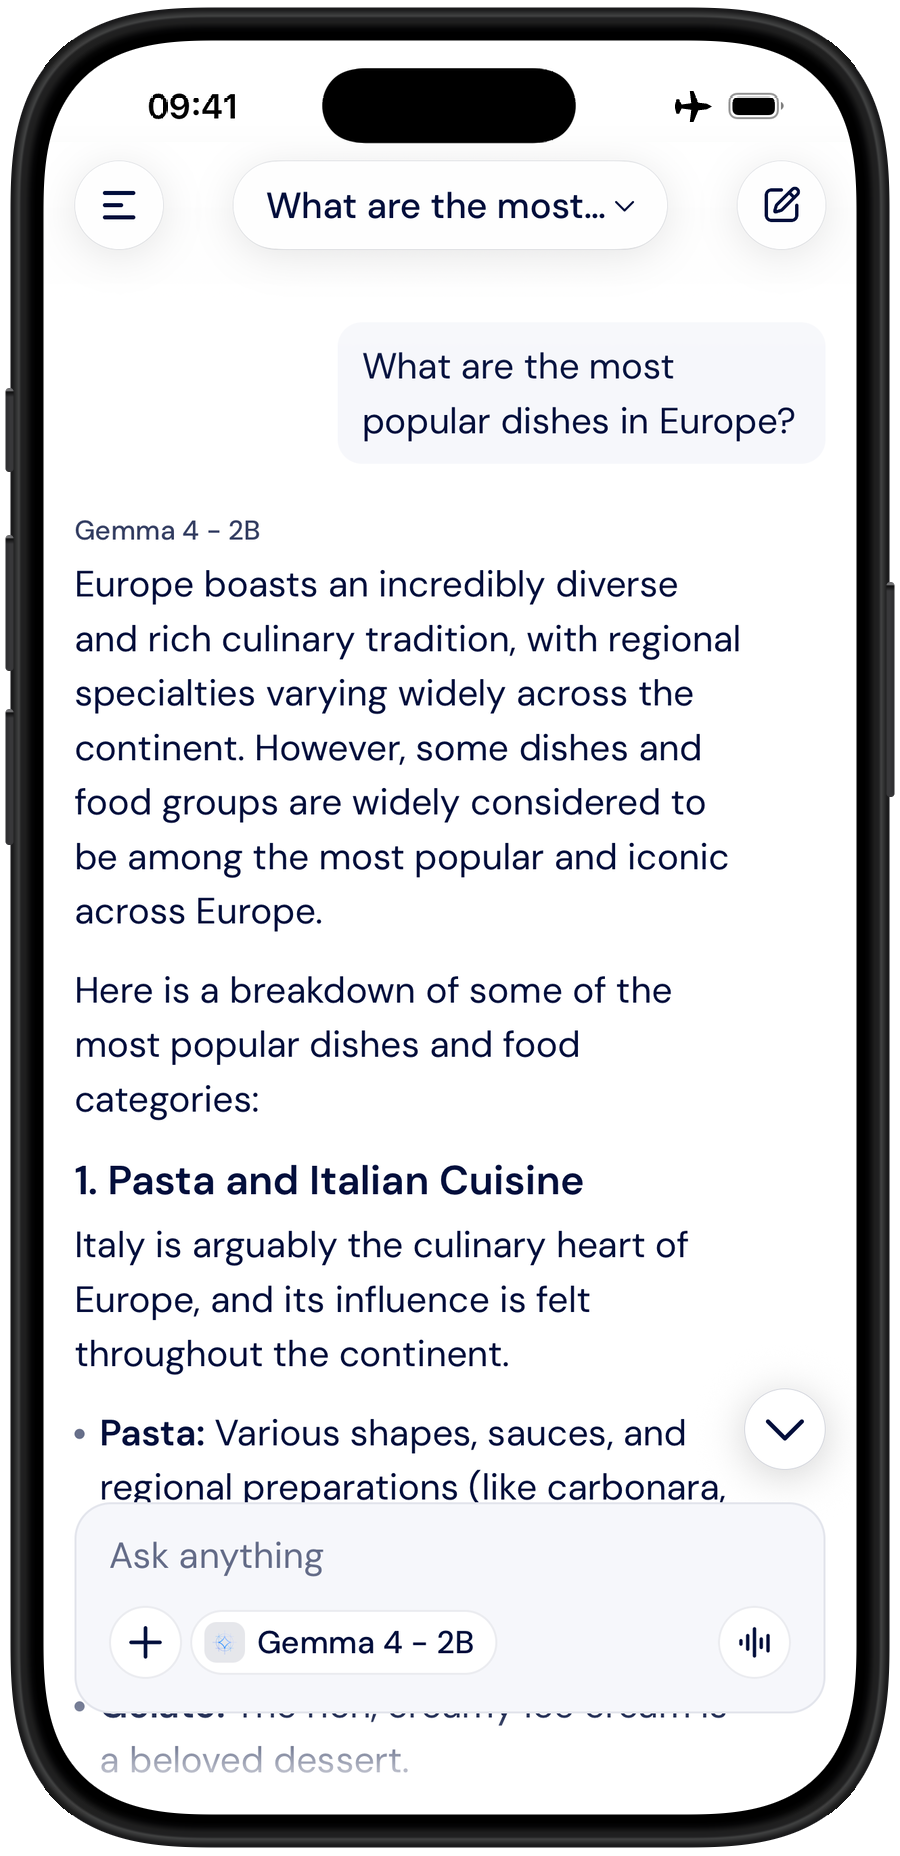
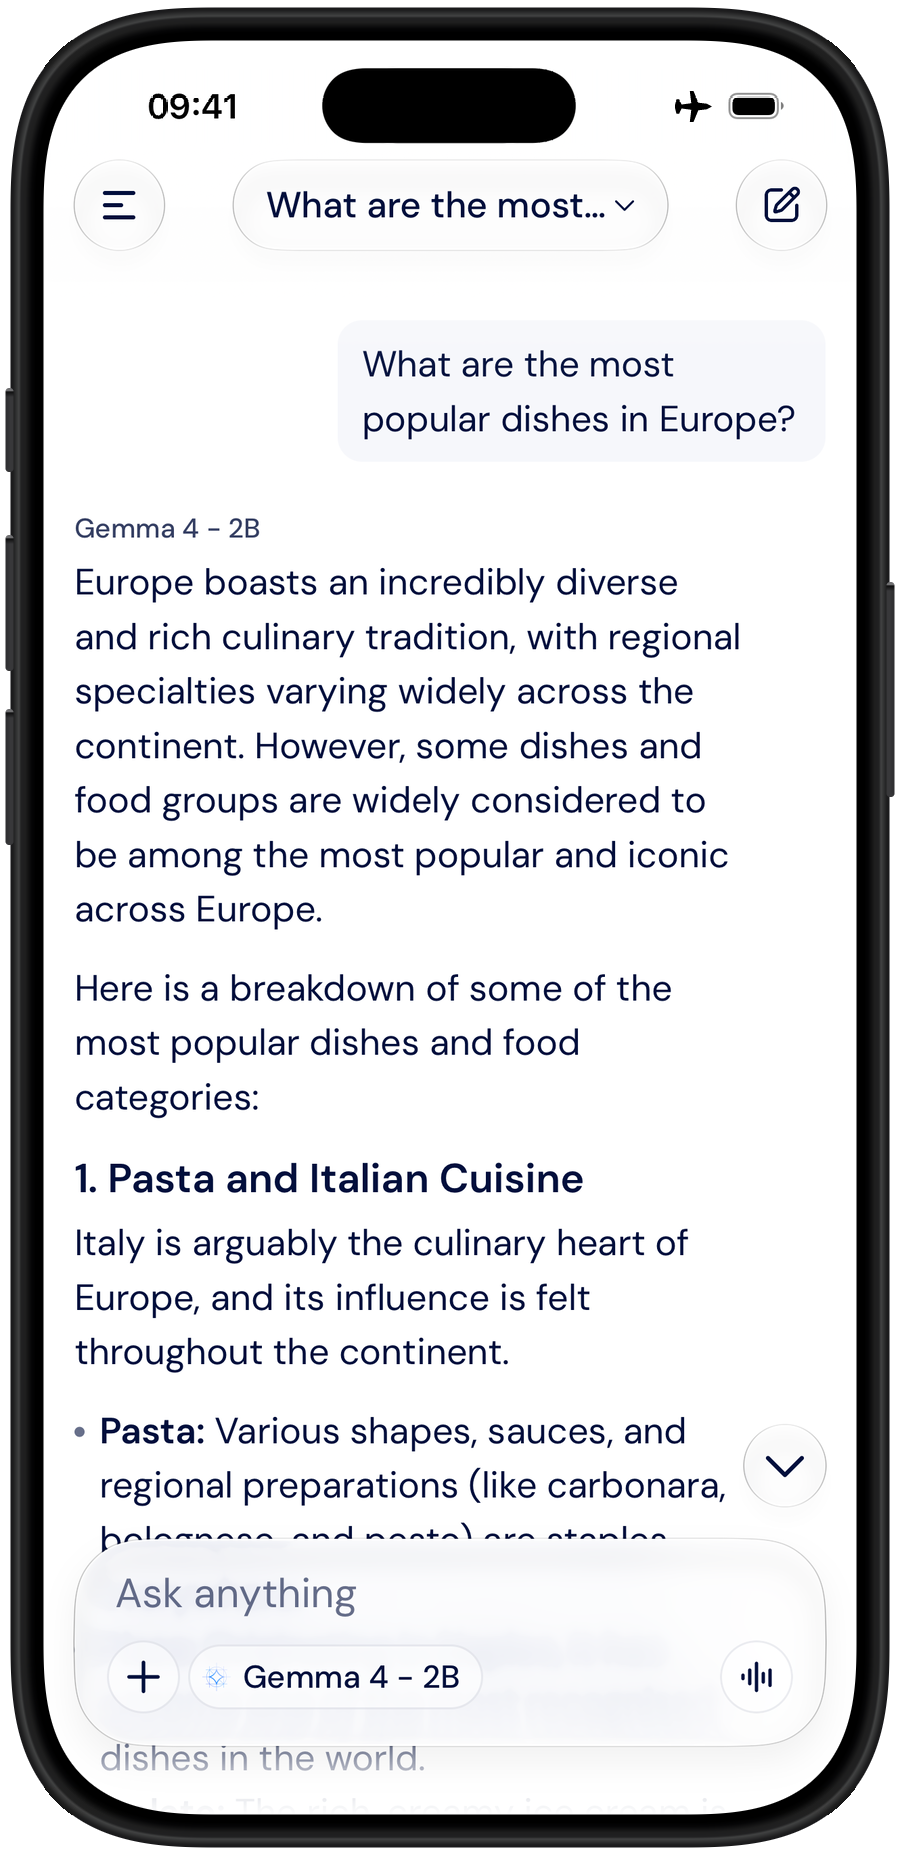
feat(onboarding): images in onboarding update (#533)
## What
Update of images used in onboarding to match with latest changes in chat
screen. Also updates background used in onboarding to be the same as in
new chat. Minor fix to first app opening which resulted in no animation
displayed sometimes, because of wrongly detecting screen changes.

diff --git a/components/onboarding/OnboardingSlide.tsx b/components/onboarding/OnboardingSlide.tsx
@@ -11,7 +11,8 @@ import { LinearGradient } from 'expo-linear-gradient';
 import { useThemedStyles } from '../../hooks/useThemedStyles';
 import OnboardingScrim from './OnboardingScrim';
 import OnboardingCaption from './OnboardingCaption';
-import { Theme, mixColors, withAlpha } from '../../styles/colors';
+import MaskedView from '@react-native-masked-view/masked-view';
+import { Theme, withAlpha } from '../../styles/colors';
 import {
   BADGE_LEAD,
   CARD_INSET,
@@ -33,6 +34,8 @@ const CROP_RAMP: [number, number][] = [
   [0.75, 0.156],
   [1, 0],
 ];
+
+const MASK_INK = '#000000';
 
 interface Props {
   slide: Slide;
@@ -84,16 +87,8 @@ function OnboardingSlide({
     0,
     ...CROP_RAMP.map(([at]) => clearStop + (1 - clearStop) * at),
   ] as [number, number, ...number[]];
-  const cropFadeColors = [1, ...CROP_RAMP.map(([, alpha]) => alpha)].map(
-    (alpha, stop) =>
-      withAlpha(
-        mixColors(
-          theme.bg.softPrimary,
-          theme.bg.main,
-          (cropFadeLocations[stop] * cropHeight) / pageHeight
-        ),
-        alpha
-      )
+  const cropMaskColors = [1, ...CROP_RAMP.map(([, cover]) => cover)].map(
+    (cover) => withAlpha(MASK_INK, 1 - cover)
   ) as [string, string, ...string[]];
 
   const start = (index - 1) * pageWidth;
@@ -180,28 +175,42 @@ function OnboardingSlide({
     };
   });
 
+  const illustration = (
+    <Animated.View style={illustrationStyle}>
+      <Image
+        source={slide.illustration.source}
+        style={{
+          width: illustrationWidth,
+          height: illustrationWidth / slide.illustration.aspectRatio,
+        }}
+      />
+    </Animated.View>
+  );
+
   return (
     <View style={[styles.page, { width: pageWidth, height: pageHeight }]}>
       <View
         pointerEvents="none"
         style={[styles.illustrationZone, zonePlacement]}
       >
-        <Animated.View style={illustrationStyle}>
-          <Image
-            source={slide.illustration.source}
-            style={{
-              width: illustrationWidth,
-              height: illustrationWidth / slide.illustration.aspectRatio,
-            }}
-          />
-        </Animated.View>
-        {!anchoredTop && (
-          <LinearGradient
-            colors={cropFadeColors}
-            locations={cropFadeLocations}
-            style={[styles.cropFade, { height: cropHeight }]}
-            pointerEvents="none"
-          />
+        {anchoredTop ? (
+          illustration
+        ) : (
+          <MaskedView
+            style={[styles.cropMask, isSplit && styles.cropMaskCentred]}
+            maskElement={
+              <View style={StyleSheet.absoluteFill}>
+                <LinearGradient
+                  colors={cropMaskColors}
+                  locations={cropFadeLocations}
+                  style={{ height: cropHeight }}
+                />
+                <View style={styles.cropMaskSolid} />
+              </View>
+            }
+          >
+            {illustration}
+          </MaskedView>
         )}
       </View>
 
@@ -253,11 +262,17 @@ const createStyles = (theme: Theme) =>
     zoneCentred: {
       justifyContent: 'center',
     },
-    cropFade: {
-      position: 'absolute',
-      top: 0,
-      left: 0,
-      right: 0,
+    cropMask: {
+      ...StyleSheet.absoluteFill,
+      alignItems: 'center',
+      justifyContent: 'flex-end',
+    },
+    cropMaskCentred: {
+      justifyContent: 'center',
+    },
+    cropMaskSolid: {
+      flex: 1,
+      backgroundColor: MASK_INK,
     },
     textClip: {
       position: 'absolute',

diff --git a/app/(modals)/onboarding.tsx b/app/(modals)/onboarding.tsx
@@ -1,6 +1,5 @@
 import React, { useCallback, useEffect, useState } from 'react';
 import { StyleSheet, View } from 'react-native';
-import { LinearGradient } from 'expo-linear-gradient';
 import Animated, {
   Easing,
   ReduceMotion,
@@ -14,6 +13,7 @@ import { useThemedStyles } from '../../hooks/useThemedStyles';
 import { Theme } from '../../styles/colors';
 import OnboardingIntroPanel from '../../components/onboarding/OnboardingIntroPanel';
 import OnboardingCarousel from '../../components/onboarding/OnboardingCarousel';
+import { NewChatBackground } from '../../components/chat-screen/NewChatBackground';
 import { markOnboardingComplete } from '../../utils/onboardingStatus';
 import { useSettingsStore } from '../../store/settingsStore';
 import { currentAppVersion } from '../../utils/appVersion';
@@ -25,7 +25,7 @@ const INTRO_EASING = Easing.bezier(...EMPHASIZED_DECELERATE);
 
 function OnboardingScreen() {
   const router = useRouter();
-  const { styles, theme } = useThemedStyles(createStyles);
+  const { styles } = useThemedStyles(createStyles);
   const [showCarousel, setShowCarousel] = useState(false);
   const introProgress = useSharedValue(1);
 
@@ -78,10 +78,7 @@ function OnboardingScreen() {
 
   return (
     <View style={styles.container}>
-      <LinearGradient
-        colors={[theme.bg.softPrimary, theme.bg.main]}
-        style={StyleSheet.absoluteFill}
-      />
+      <NewChatBackground />
 
       {!showCarousel && (
         <Animated.View style={[StyleSheet.absoluteFill, introStyle]}>

diff --git a/app/(drawer)/index.tsx b/app/(drawer)/index.tsx
@@ -86,20 +86,22 @@ export default function App() {
     }, [db, downloadedModels])
   );
 
+  const onboardingRedirectRef = useRef(onboardingRedirect);
+  onboardingRedirectRef.current = onboardingRedirect;
   const [isFocused, setIsFocused] = useState(false);
-  const [hasLeftScreen, setHasLeftScreen] = useState(false);
+  const [returnedFromRedirect, setReturnedFromRedirect] = useState(false);
   useFocusEffect(
     useCallback(() => {
       setIsFocused(true);
-      return () => {
-        setIsFocused(false);
-        setHasLeftScreen(true);
-      };
+      if (onboardingRedirectRef.current === 'redirected') {
+        setReturnedFromRedirect(true);
+      }
+      return () => setIsFocused(false);
     }, [])
   );
   const welcomeIsUncovered =
     onboardingRedirect === 'stayed' ||
-    (onboardingRedirect === 'redirected' && hasLeftScreen);
+    (onboardingRedirect === 'redirected' && returnedFromRedirect);
 
   const willRedirect = downloadedModels.length > 0 && !redirectFailed;
 

diff --git a/components/chat-screen/NewChatBackground.tsx b/components/chat-screen/NewChatBackground.tsx
@@ -83,7 +83,12 @@ export const NewChatBackground = React.memo(() => {
   const { styles } = useThemedStyles(createStyles);
 
   return (
-    <View style={styles.paint} pointerEvents="none">
+    <View
+      style={styles.paint}
+      pointerEvents="none"
+      renderToHardwareTextureAndroid
+      shouldRasterizeIOS
+    >
       {supportsSoftLightBlend && (
         <Image source={GRAIN} resizeMode="repeat" style={styles.grain} />
       )}
